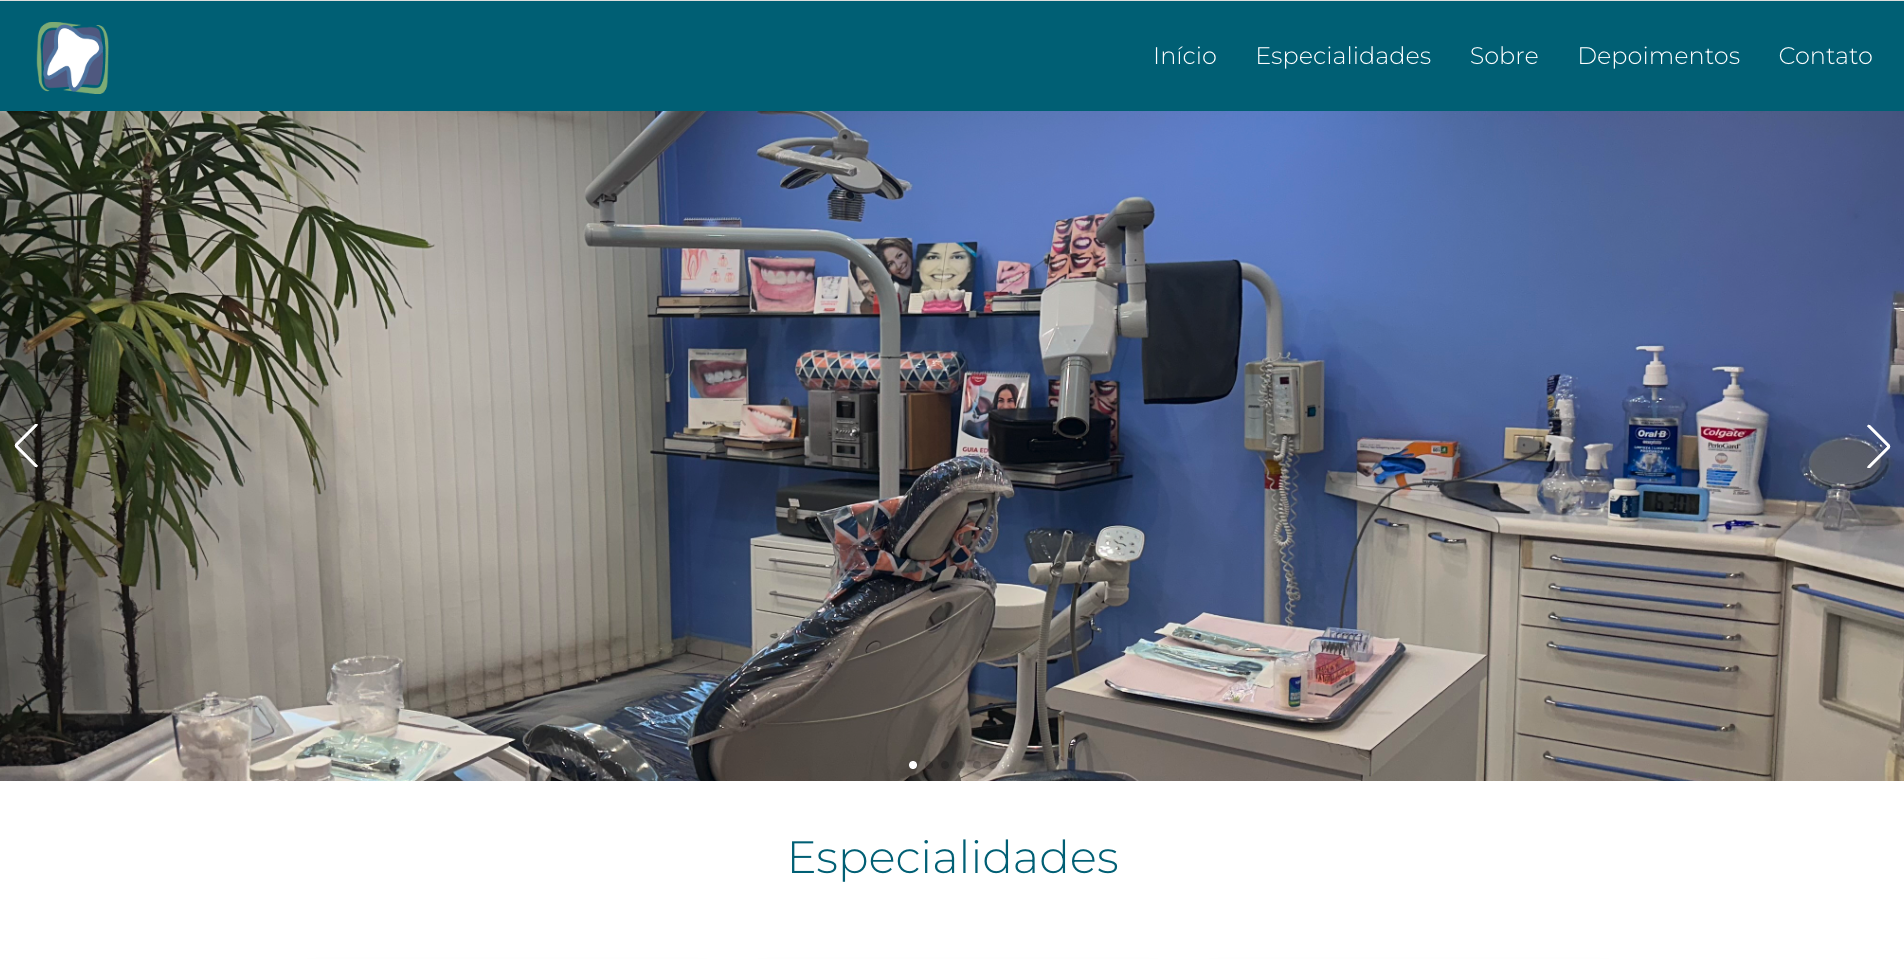
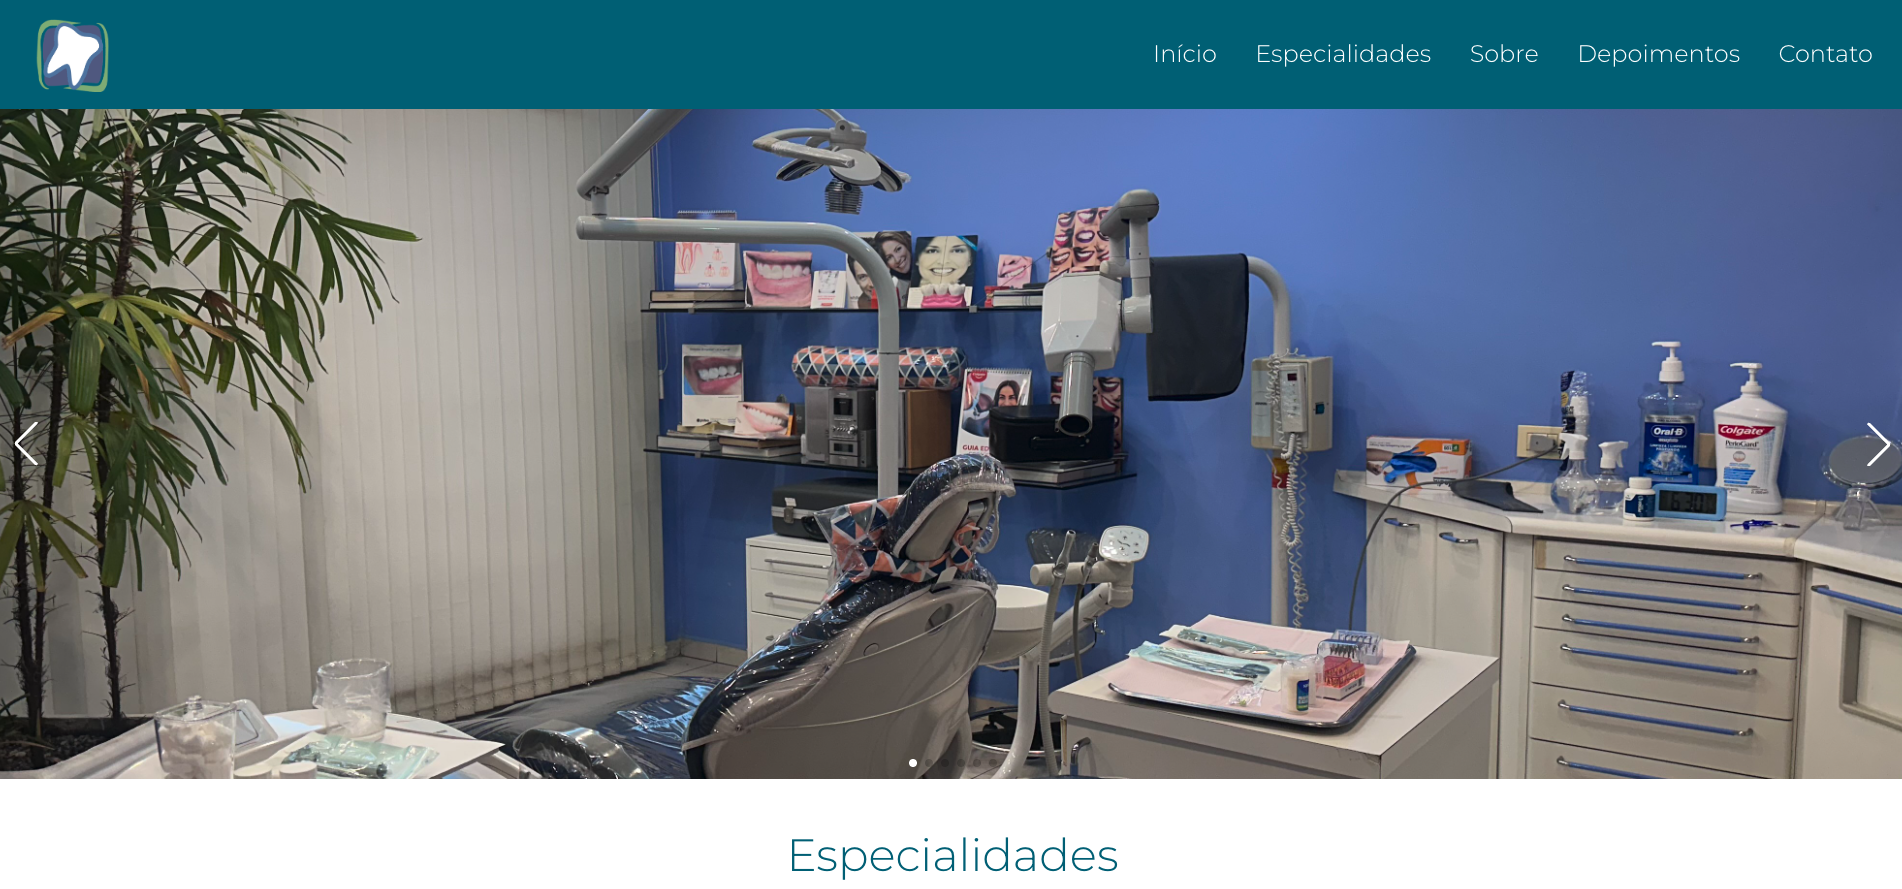
conserta imagem de fundo na página de projetos

diff --git a/projetos/project.js b/projetos/project.js
@@ -19,7 +19,12 @@ document.addEventListener("DOMContentLoaded", () => {
       const project = data[projectId - 1];
       projectTitle.innerText = project.nome;
       projectDescription.innerText = project.descricao;
-      projectImage.style.cssText = `background: url(${project.imagemHero}) no-repeat center bottom`;
+      projectImage.style.cssText = `
+      background-image: url(${project.imagemHero});
+      background-size: cover;
+      background-position: top;
+      background-repeat: no-repeat;
+       `;
     })
     .catch((error) => console.error(error));
 });

diff --git a/projetos/project.css b/projetos/project.css
@@ -1,16 +1,20 @@
 header {
   max-height: 0;
+  max-width: 0;
 }
 
 #hero {
   margin-top: 40px;
+  background-color: #fef9f3;
 }
 
 #hero h1 {
   text-align: center;
-  color: #fff;
+  color: var(--blue);
 }
 
 #hero #projectImage {
   height: 70vh;
+  width: 100%;
+  overflow: hidden;
 }
